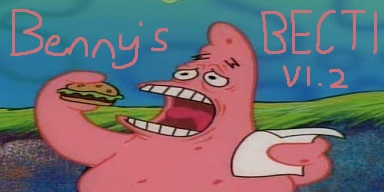
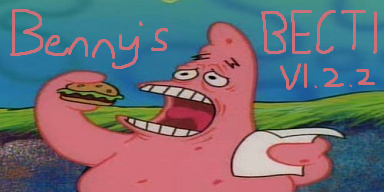
V1.2.2

diff --git a/Rsc/Game.hpp b/Rsc/Game.hpp
@@ -4,11 +4,11 @@ respawnDelay = 10;
 respawnDialog = false;
 
 //--- Require briefing.html to show up.
-onLoadMission = "Benny's BECTI - V1.2";
+onLoadMission = "Benny's BECTI - V1.2.2";
 onLoadMissionTime = false;
 onLoadName = "Benny's BECTI: Altis";
 
-briefingName = "Benny's BECTI - V1.2";
+briefingName = "Benny's BECTI - V1.2.2";
 
 //--- ArmA 3 Specifics
 dev = "Benny";
